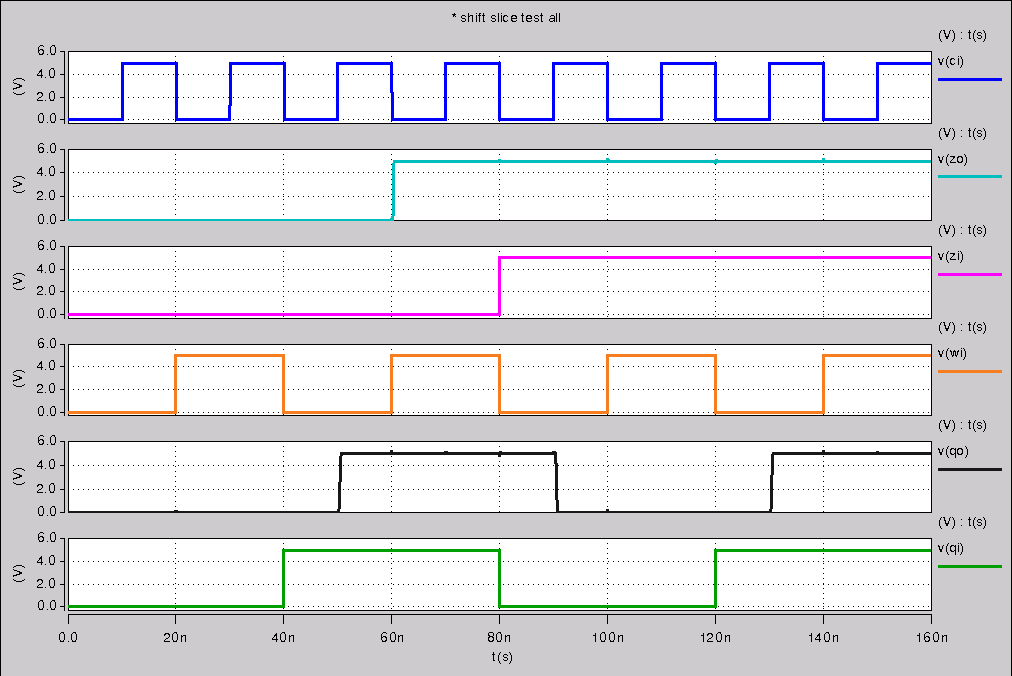
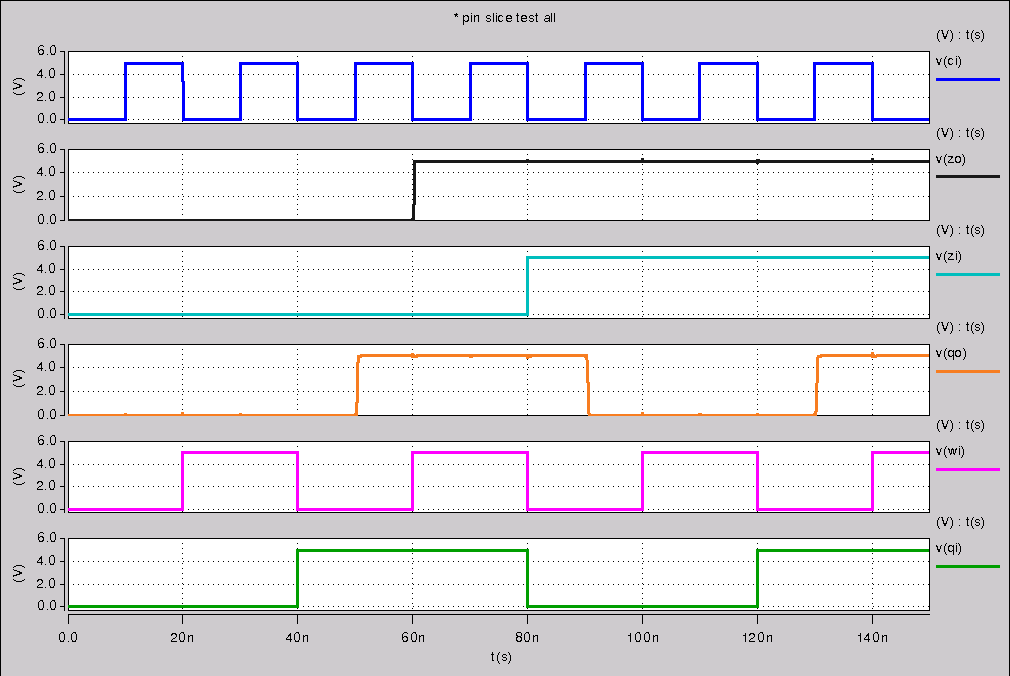
[spice] fixed functional waveforms

diff --git a/project/spice/pin_slice.py b/project/spice/pin_slice.py
@@ -12,7 +12,7 @@ patterns = (
 
 with open("pin_slice_all.sp", "w") as f:
 
-    f.write("* Shift Slice Test All\n")
+    f.write("* Pin Slice Test All\n")
 
     f.write(".include ../../models/model_t36s.sp\n")
     f.write(".include ../magic/pin_slice.spice\n")
